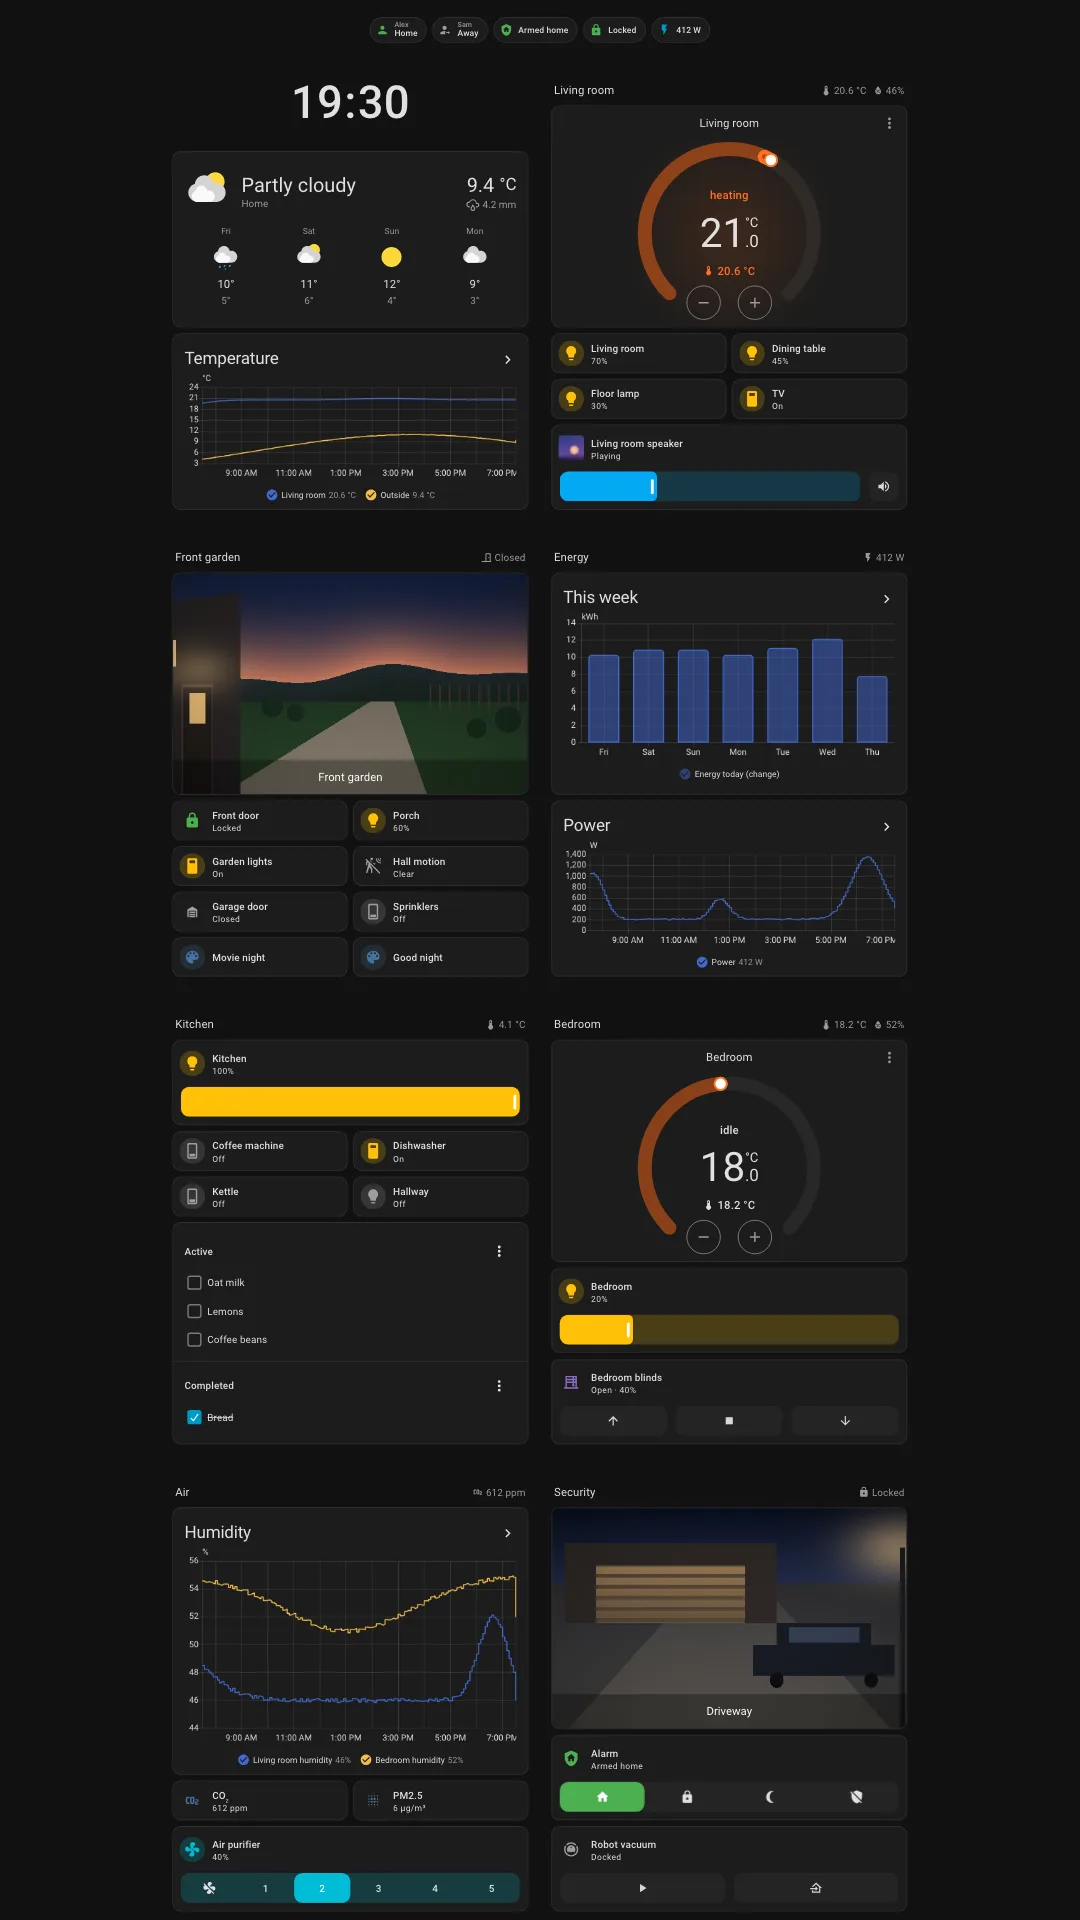
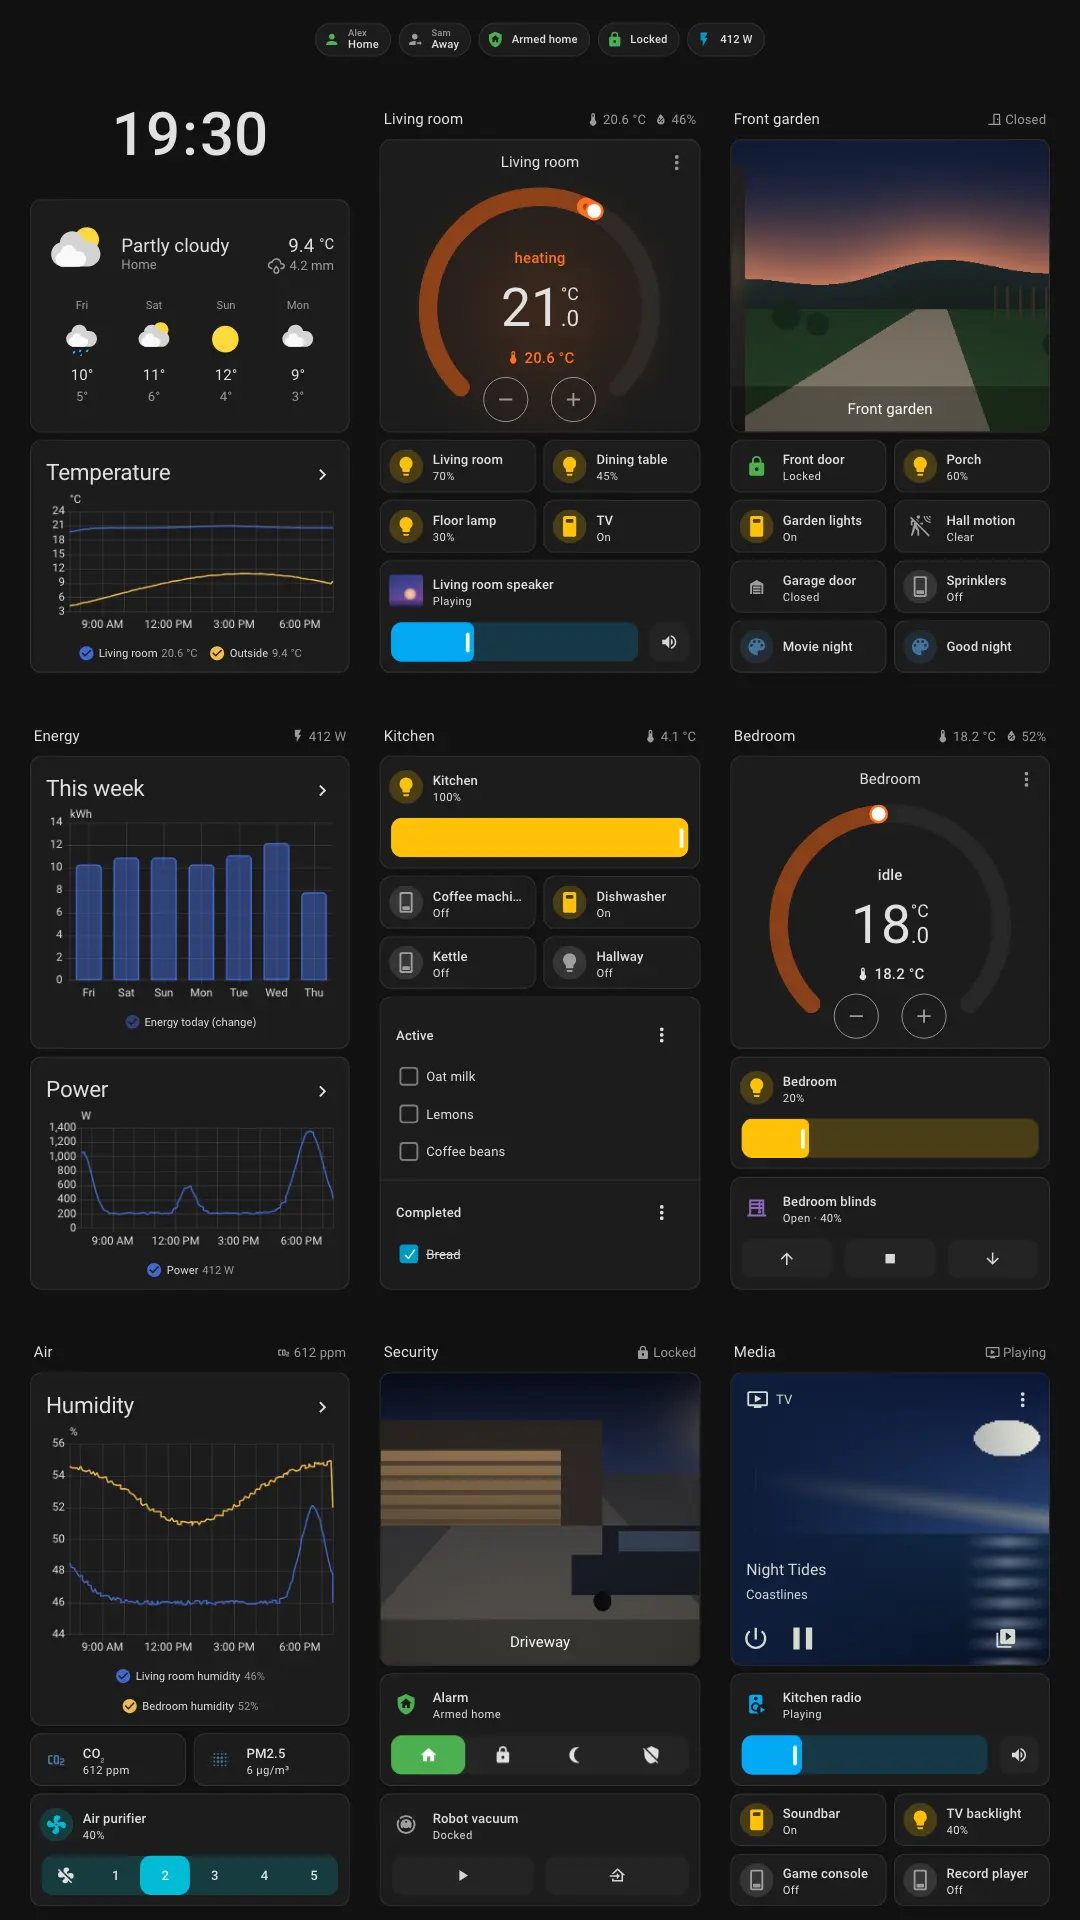
Showcase: a ninth section, and the Mirror at three columns (#144)
Maintainer chose the Mirror alternative: three columns, filled by a
ninth section. Media (TV with a drawn still, kitchen radio with volume,
soundbar, backlight, console, record player) is ten grid rows like the
rest. One view now; the portrait view is gone.

The Mirror's density is pinned (0.94) in render.mjs's PINNED table:
a fit can't hold three columns there, as the column count changes with
the density it tries. Every render now fails if the screen's bottom edge
cuts a row of sections or a shown row ends unevenly, and the Mirror if
it isn't three by three (checked: pinning 0.96 cuts row 3, 0.72 gives
four columns).

S1 and tablet keep the fit; the ninth section sits below the tablet's
edge. WebP quality 82 -> 76 so the Mirror fits the 80 KiB budget:
S1 41.5, Mirror 74.7, tablet 65.1 KiB. Same bytes over two runs.

diff --git a/tools/showcase/home.py b/tools/showcase/home.py
@@ -7,9 +7,8 @@ What it doesn't set comes from Clarity's dashboards.py. Everything is seeded and
 render.mjs also gives the browser's clock, so every run draws the same picture. Names are made up, the
 pictures are drawn here (no camera, no real place, no faces), and nothing comes from a real home.
 
-One dashboard, two views with the same sections: "home" (up to four columns, landscape screens) and
-"portrait" (two columns). Every section is SECTION_ROWS grid rows tall, so on any screen each row of
-sections ends level and no column stops early.
+One dashboard, one view, nine sections. Every section is SECTION_ROWS grid rows tall, so on any screen
+each row of sections ends level and no column stops early.
 """
 import datetime
 import math
@@ -83,6 +82,17 @@ ENTITIES = {
         "is_volume_muted": False, "media_content_type": "music", "media_title": "Slow Morning",
         "media_artist": "The Glass Tones", "media_album_name": "Low Light",
         "entity_picture": "/clarity/showcase-art.png", "supported_features": 152463}),
+    "media_player.tv": ("playing", {
+        "friendly_name": "TV", "device_class": "tv", "volume_level": 0.25, "is_volume_muted": False,
+        "media_content_type": "tvshow", "media_title": "Night Tides", "media_series_title": "Coastlines",
+        "entity_picture": "/clarity/showcase-tv.png", "supported_features": 152463}),
+    "media_player.kitchen_radio": ("playing", {
+        "friendly_name": "Kitchen radio", "device_class": "speaker", "volume_level": 0.2, "is_volume_muted": False,
+        "media_content_type": "music", "media_title": "Morning Show", "supported_features": 152463}),
+    "switch.soundbar": ("on", {"friendly_name": "Soundbar"}),
+    "switch.game_console": ("off", {"friendly_name": "Game console"}),
+    "light.tv_backlight": _light("TV backlight", 40),
+    "switch.record_player": ("off", {"friendly_name": "Record player"}),
     "camera.front_garden": ("idle", {
         "friendly_name": "Front garden", "access_token": "showcase",
         "entity_picture": "/api/camera_proxy/camera.front_garden?token=showcase", "supported_features": 0}),
@@ -237,14 +247,20 @@ SECTIONS = [
         _camera("camera.driveway", 5),
         _tile("alarm_control_panel.home", [("alarm-modes", {"modes": ["armed_home", "armed_away", "armed_night", "disarmed"]})]),
         _tile("vacuum.robot", [("vacuum-commands", {"commands": ["start_pause", "return_home"]})])]},
+    {"type": "grid", "cards": [
+        _heading("Media", "media_player.tv"),
+        _rows({"type": "media-control", "entity": "media_player.tv"}, 5),
+        _tile("media_player.kitchen_radio", [("media-player-volume-slider", {})]),
+        _tile("switch.soundbar"), _tile("light.tv_backlight"),
+        _tile("switch.game_console"), _tile("switch.record_player")]},
 ]
 
 
 def lovelace(url_path):
     if url_path != DASHBOARD:
         return {"views": [{"title": "Home", "cards": []}]}
-    return {"views": [{"title": title, "path": path, "type": "sections", "max_columns": cols, "badges": BADGES,
-                       "sections": SECTIONS} for title, path, cols in (("Home", "home", 4), ("Portrait", "portrait", 2))]}
+    return {"views": [{"title": "Home", "path": "home", "type": "sections", "max_columns": 4, "badges": BADGES,
+                       "sections": SECTIONS}]}
 
 
 def cards():
@@ -361,7 +377,8 @@ ICONS = {
                "temperature": {"default": "mdi:thermometer"}},
     "switch": {"_": {"default": "mdi:toggle-switch-variant", "state": {"off": "mdi:toggle-switch-variant-off"}}},
     "media_player": {"_": {"default": "mdi:cast", "state": {"playing": "mdi:cast-connected", "off": "mdi:cast-off"}},
-                     "speaker": {"default": "mdi:speaker", "state": {"playing": "mdi:speaker-play", "off": "mdi:speaker-off"}}},
+                     "speaker": {"default": "mdi:speaker", "state": {"playing": "mdi:speaker-play", "off": "mdi:speaker-off"}},
+                     "tv": {"default": "mdi:television", "state": {"playing": "mdi:television-play", "off": "mdi:television-off"}}},
     "cover": {"_": {"default": "mdi:window-open", "state": {"closed": "mdi:window-closed"}},
               "garage": {"default": "mdi:garage", "state": {"open": "mdi:garage-open"}},
               "blind": {"default": "mdi:blinds-horizontal", "state": {"closed": "mdi:blinds-horizontal-closed"}}},
@@ -489,6 +506,21 @@ def _driveway(u, v):
     return tuple(int(max(0, min(255, x * vig))) for x in c)
 
 
+def _poster(u, v):
+    """The TV show's still: a moonlit sea with a lighthouse beam."""
+    if v < 0.55:
+        c = _mix((12, 22, 54), (40, 70, 120), v / 0.55)
+    else:
+        c = _mix((18, 42, 70), (6, 16, 34), (v - 0.55) / 0.45)
+        c = _mix(c, (200, 210, 230), max(0.0, 0.5 - abs(u - 0.7) * 6) * (0.5 + 0.5 * math.sin(v * 90)))
+    if (u - 0.7) ** 2 + (v - 0.22) ** 2 < 0.004:
+        c = (236, 236, 222)
+    if 0.16 < u < 0.2 and 0.34 < v < 0.56:
+        c = (30, 32, 40)
+    beam = max(0.0, 1 - abs((v - 0.35) - (u - 0.18) * 0.25) * 18) * (u > 0.18)
+    return tuple(int(x) for x in _mix(c, (255, 236, 180), beam * 0.35))
+
+
 def _art(u, v):
     """Album art: a soft sky-to-violet field with a low sun."""
     c = _mix((40, 60, 130), (140, 80, 170), v * 0.8 + u * 0.2)
@@ -509,6 +541,8 @@ def asset(name):
             _assets[name] = ("image/png", _png(640, 360, _garden))
         elif name == "still-camera.driveway.png":
             _assets[name] = ("image/png", _png(640, 360, _driveway))
+        elif name == "showcase-tv.png":
+            _assets[name] = ("image/png", _png(320, 180, _poster))
         elif name == "showcase-art.png":
             _assets[name] = ("image/png", _png(300, 300, _art))
         else:

diff --git a/tools/perf/test/test_showcase.py b/tools/perf/test/test_showcase.py
@@ -1,8 +1,7 @@
 """python3 -m unittest discover -s tools/perf/test
 
 The showcase home (tools/showcase/home.py) served by the fake Home Assistant, as render.mjs serves it
-for the device renders: its own dashboard (two views, the same sections, each the same height) and
-made-up states, the forecast, the energy statistics, the shopping list, the camera stills and the album
+for the device renders: its own dashboard (nine sections, each the same height) and made-up states, the forecast, the energy statistics, the shopping list, the camera stills and the album
 art, HA's icons and state names, nothing that shows a date, the same data and pictures every time, and
 every command the frontend sends still answered.
 Runs on a stub frontend."""
@@ -76,11 +75,10 @@ class Showcase(unittest.TestCase):
             self.assertEqual(self.entities(view) - states, set(), "cards name only showcase entities")
             self.assertEqual(len(self.cards(view)), home.cards(), "what render.mjs waits for")
 
-    def test_landscape_and_portrait_show_the_same_sections(self):
-        home_view, portrait = self.views(self.connect())
-        self.assertEqual((home_view["path"], home_view["max_columns"], portrait["path"], portrait["max_columns"]),
-                         ("home", 4, "portrait", 2))
-        self.assertEqual(home_view["sections"], portrait["sections"])
+    def test_one_view_of_nine_sections(self):
+        """Nine fill three columns of three (the Mirror) and two rows of four (the tablet, the ninth below its fold)."""
+        (view,) = self.views(self.connect())
+        self.assertEqual((view["path"], view["max_columns"], len(view["sections"])), ("home", 4, 9))
 
     def test_every_section_is_as_tall_as_the_others(self):
         """In grid rows, so a row of sections ends level on any screen and no column stops early."""
@@ -103,6 +101,7 @@ class Showcase(unittest.TestCase):
                               "picture-entity", "todo-list", "tile", "heading"}, types)
         cameras = [c for c in self.cards(self.views(self.connect())[0]) if c["type"] == "picture-entity"]
         self.assertEqual(len(cameras), 2)
+        self.assertIn("media-control", types)
 
     def test_nothing_shows_a_date(self):
         evening = datetime.datetime.fromtimestamp(home.NOW, datetime.timezone.utc).hour
@@ -137,7 +136,7 @@ class Showcase(unittest.TestCase):
     def test_the_camera_stills_and_the_album_art(self):
         port = self.srv.server_address[1]
         for path in ("/api/camera_proxy/camera.front_garden?token=showcase", "/api/camera_proxy/camera.driveway?token=showcase",
-                     "/clarity/showcase-art.png"):
+                     "/clarity/showcase-art.png", "/clarity/showcase-tv.png"):
             with self.subTest(path):
                 conn = http.client.HTTPConnection("127.0.0.1", port)
                 conn.request("GET", path)

diff --git a/frames/README.md b/frames/README.md
@@ -1,3 +1,9 @@
+| Frame | Size | Density | Shown | File |
+|---|---|---|---|---|
+| `aqara-s1-plus` | 1440×720 | 0.989 (fitted) | 1 row of 4 sections | 41.5 KiB |
+| `lululemon-mirror` | 1080×1920 | 0.94 (pinned) | 3 rows of 3 | 74.7 KiB |
+| `generic-android` | 1920×1200 | 0.867 (fitted) | 2 rows of 4 (the ninth section is below the edge) | 65.1 KiB |
+
 # Frames
 
 A **frame** is one device's definition: its installer recipe, and the design data that describes it to
@@ -96,18 +102,21 @@ Every frame's card shows the same dashboard (maintainer, #144), so the renders a
 `render.webp`, made by `node tools/showcase/render.mjs [frame-id ...]`.
 
 - **What it shows.** The showcase home ([`tools/showcase/home.py`](../tools/showcase/home.py)): a
-  made-up house in the evening, on HA's sections view. Eight sections: a clock, the weather with its
+  made-up house in the evening, on HA's sections view. Nine sections: a clock, the weather with its
   forecast and the day's temperature; the living room (thermostat, lights, speaker with album art);
   the front garden (camera, lock, lights, garage door, scenes); energy (the week's use, today's
   power); the kitchen (lights, appliances, a shopping list); the bedroom (thermostat, light, blinds);
-  air (humidity, CO₂, PM2.5, the purifier); security (a driveway camera, the alarm, the vacuum). The
-  camera stills and the album art are drawn by `home.py` itself: no camera, no real place, no faces.
+  air (humidity, CO₂, PM2.5, the purifier); security (a driveway camera, the alarm, the vacuum);
+  media (the TV with its show's still, the kitchen radio, the soundbar and more). The camera stills,
+  the TV still and the album art are drawn by `home.py` itself: no camera, no real place, no faces.
   The clock shows a time and no date; the graphs cover today only, so their axes name no day.
 - **Full screens.** Every section is 10 grid rows tall (`SECTION_ROWS`, tested), so each row of
-  sections ends level and no column stops early. Landscape screens get the `home` view (up to four
-  columns), portrait ones the `portrait` view (two columns, the same sections). The script then
-  picks each frame's zoom, from density 0.6 to 1.1, so the screen's bottom edge falls just under a
-  row of sections: as many whole rows as fit, and no card cut through.
+  sections ends level and no column stops early. For each landscape frame the script picks the zoom,
+  from density 0.6 to 1.1, so the screen's bottom edge falls just under a row of sections: as many
+  whole rows as fit. The Mirror's zoom is set by hand (`PINNED` in `render.mjs`) to three columns of
+  three sections: a fit can't hold three columns there, because the number of columns changes with
+  the density it tries. Every render fails if the bottom edge cuts a row, a shown row ends unevenly
+  (by its lowest card, more than 4 px), or the Mirror isn't three by three.
 - **How.** It serves that home from Clarity's fake Home Assistant with the frontend build Clarity
   pins ([`tools/perf/hafrontend.py`](../tools/perf/hafrontend.py)), and opens it in headless Chrome as
   the kiosk shows it: no header, no sidebar, HA's default theme in dark mode. The page's clock is held

diff --git a/CHANGELOG.md b/CHANGELOG.md
@@ -17,8 +17,8 @@ below as the release notes.
   openWakeWord words stay in the list as "(openWakeWord)" for this release.
 - **Kiln's panel cards show a real Home Assistant dashboard.** Each device on kiln.glassworks.dev now
   shows the same made-up home, drawn by Home Assistant's own frontend and filling that device's
-  screen: the clock and weather, eight rooms and areas with thermostats, lights, music, two cameras,
-  a shopping list, the alarm and the day's graphs. Before, it was a sketch with a fixed date. The
+  screen: the clock and weather, nine rooms and areas with thermostats, lights, music and TV, two
+  cameras, a shopping list, the alarm and the day's graphs. Before, it was a sketch with a fixed date. The
   Mirror's is portrait.
 - **A new boot screen.** The power-on logo and the boot animation now show the Glassworks mark:
   three glass plates drop into place, the top one lights up from sky to violet, and "Glassworks" and

diff --git a/THIRD-PARTY-NOTICES.md b/THIRD-PARTY-NOTICES.md
@@ -366,7 +366,7 @@ file, its `package.json` licence and author are given. What it adds:
 - **The device renders** (`frames/<id>/design/render.webp`, on the frame cards): screenshots of the
   **Home Assistant frontend** 20261028.5 (Apache-2.0, Copyright Home Assistant contributors,
   https://github.com/home-assistant/frontend) drawing a made-up dashboard, made by
-  `tools/showcase/render.mjs`. The camera stills and the album art in them are drawn by
+  `tools/showcase/render.mjs`. The camera stills, the TV still and the album art in them are drawn by
   `tools/showcase/home.py` (this project's, MIT). The images show the frontend's own look, with the **Material Design
   Icons** it bundles (`@mdi/js`, Apache-2.0, Copyright Pictogrammers, https://github.com/Templarian/MaterialDesign)
   and text in the **Roboto** font it serves (Google). Only rendered pixels are kept: no code, icon file
